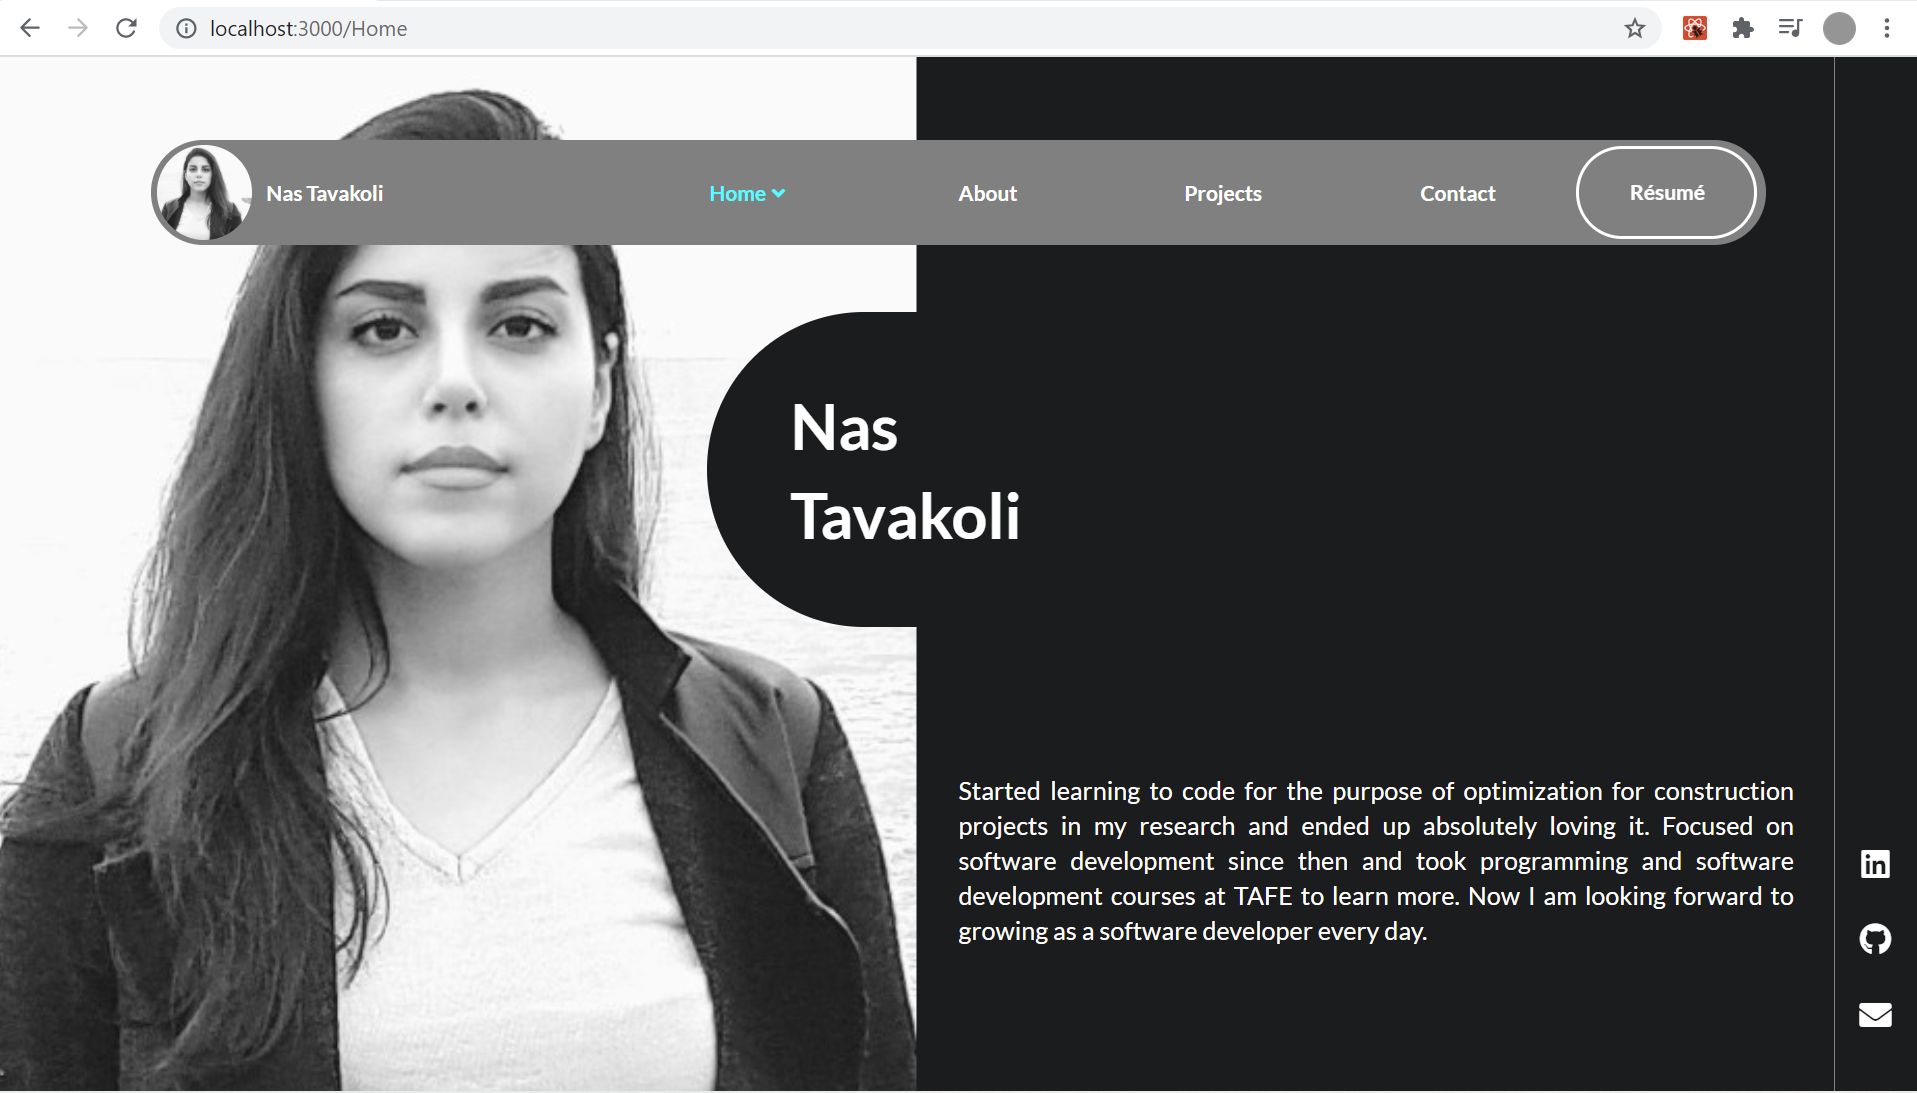
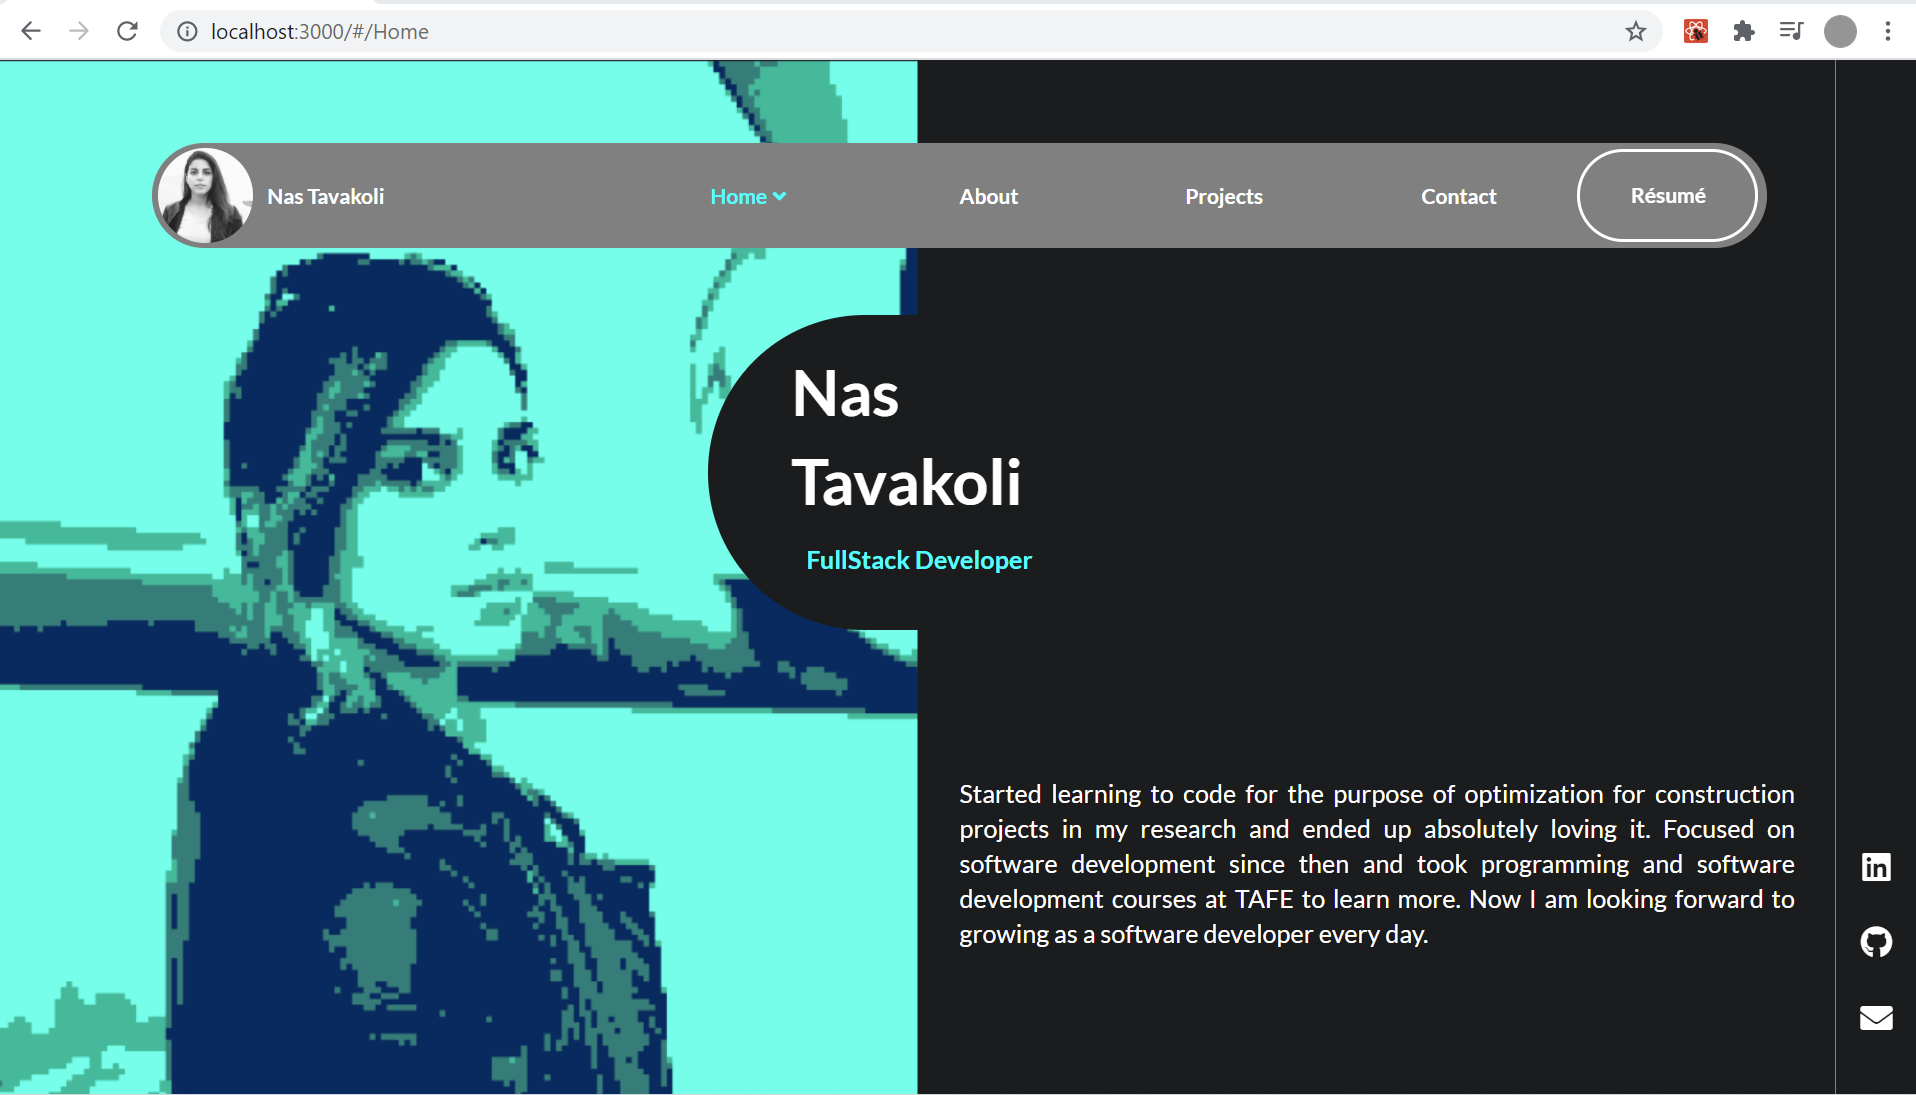
Update photo

diff --git a/src/components/ProjectCard.css b/src/components/ProjectCard.css
@@ -1,5 +1,5 @@
 .project-card .image {
-  height: 500px;
+  height: 350px;
 }
 
 .project-card .image img {
@@ -14,14 +14,46 @@
 .project-card .bottom a {
   font-weight: bold;
   color: cyan !important;
+  text-align: center;
+}
+
+.project-card .ui.section.divider {
+  margin-top: 1rem;
+  margin-bottom: 1rem;
 }
 
 .project-card .meta {
   color: white !important;
+  text-align: justify;
+  text-justify: inter-word;
 }
 
 .project-card .ui.dimmer.transition {
   display: flex !important;
   align-items: center;
   justify-content: center;
+}
+
+@media (max-width: 1400px) {
+  .project-card .image {
+    height: 250px !important;
+  }
+}
+
+@media (max-width: 1200px) {
+  .project-card .image {
+    height: 300px !important;
+  }
+}
+
+@media (max-width: 768px) {
+  .project-card .image {
+    height: 400px !important;
+  }
+}
+
+@media (max-width: 576px) {
+  .project-card .image {
+    height: 250px !important;
+  }
 }

diff --git a/src/pages/projects.tsx b/src/pages/projects.tsx
@@ -14,7 +14,7 @@ type Project = {
 
 const projects: Project[] = [
   {
-    name: "Placeholder Restaurant Reservation System",
+    name: "Placeholder Restaurant Reservation",
     description:
       "A restaurant reservation platform for businesses and customers using ASP .Net MVC and .Net Web APIs to communicate with the mobile app, Mar 21 – May 21",
     code: "https://github.com/NastaranTavakoli/ASP.NetCoreMVC-RestaurantReservationSystem",
@@ -92,7 +92,7 @@ const projects: Project[] = [
 export const Projects: React.FC<ProjectsProps> = () => {
   return (
     <div className="projects">
-      <div className="ui two stackable special cards">
+      <div className="ui three stackable special cards relaxed doubling">
         {projects.map((p) => (
           <ProjectCard
             projectName={p.name}

diff --git a/src/components/ProjectCard.tsx b/src/components/ProjectCard.tsx
@@ -51,7 +51,7 @@ export const ProjectCard: React.FC<ProjectCardProps> = ({
                 </a>
               )}
               <Link className="ui inverted button" to={readMoreLink}>
-                Read More
+                Demo
               </Link>
             </div>
           </div>
@@ -62,7 +62,7 @@ export const ProjectCard: React.FC<ProjectCardProps> = ({
         <Link className="header" to={readMoreLink}>
           {projectName}
         </Link>
-        <hr />
+        <div className="ui section divider"></div>
         <div className="meta">{projectDescription}</div>
       </div>
     </div>

diff --git a/src/pages/Home.css b/src/pages/Home.css
@@ -6,7 +6,7 @@
 
 .home .image-wrapper {
   height: 100vh;
-  background-image: url("../assets/img/nas.jpg");
+  background-image: url("../assets/img/nas.png");
   background-repeat: no-repeat;
   background-size: cover;
   transform: scaleX(-1);
@@ -57,6 +57,19 @@
   padding-left: 4rem;
   font-size: 3rem;
   font-weight: bolder;
+  display: block;
+}
+
+.home .circle-text p {
+  margin-top: 1.5rem;
+  margin-bottom: 0;
+}
+
+.home .circle-text .second-line {
+  font-size: 1.2rem !important;
+  margin-top: 0.8rem !important;
+  margin-left: 10px;
+  color: cyan;
 }
 
 @media (max-width: 500px) {

diff --git a/src/pages/home.tsx b/src/pages/home.tsx
@@ -15,8 +15,9 @@ export const Home: React.FC<HomeProps> = () => {
             <div className="circle-text">
               <p>
                 Nas <br />
-                Tavakoli
+                Tavakoli   
               </p>
+              <p className="second-line">FullStack Developer</p> 
             </div>
           </div>
           <div className="bottom-div">

diff --git a/public/index.html b/public/index.html
@@ -23,7 +23,7 @@
       work correctly both with client-side routing and a non-root public URL.
       Learn how to configure a non-root public URL by running `npm run build`.
     -->
-    <title>React App</title>
+    <title>Nas Tavakoli Portfolio</title>
   </head>
   <body>
     <noscript>You need to enable JavaScript to run this app.</noscript>

diff --git a/src/pages/Projects.css b/src/pages/Projects.css
@@ -3,7 +3,7 @@
   display: flex;
   align-items: center;
   justify-content: center;
-  padding: 15rem 4rem;
+  padding: 14rem 6rem 8rem 7rem;
   height: max(100%, 100vh);
 }
 
@@ -11,5 +11,11 @@
   .projects {
     padding: 3rem;
     padding-right: 4rem;
+  }
+}
+
+@media (max-width: 576px) {
+  .projects {
+    padding: 2rem !important;
   }
 }
